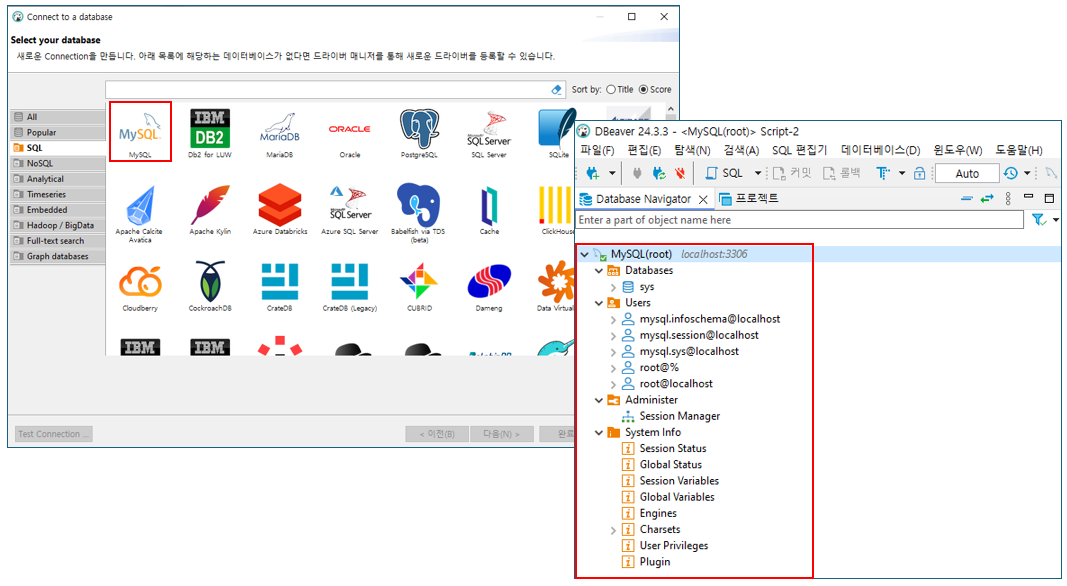
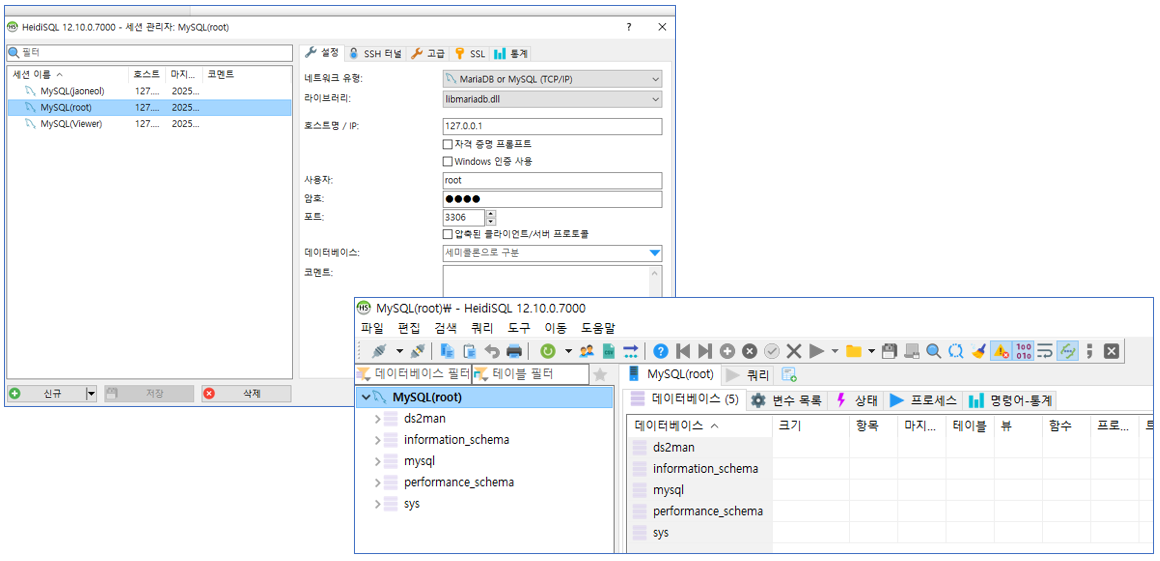
20250218

Changed region(s): [[0.0, 0.0, 1.0, 1.0], [0.0928, 0.5758, 0.2165, 0.6061]]

diff --git a/_posts/db/2024-11-01-MySQL1.md b/_posts/db/2024-11-01-MySQL1.md
@@ -115,13 +115,24 @@ exit
         ],
 ```
 
-## *Use DBeaver*
+## *Use HeidiSQL(Recommend)*
 
-There are many database-related tools, but I primarily use **DBeaver**. Each database tool has its pros and cons, but in practice, **DBeaver** offers many features that are highly beneficial for developers. In particular, it is free and can also be used in a corporate environment. You can download and use it from [DBeaver](https://dbeaver.io/download/).
+There are many database-related tools, but when connecting to MySQL, I mainly use **HeidiSQL**. Each database tool has its pros and cons, but in practice, **HeidiSQL** offers many features that are highly beneficial for developers. In particular, it is free and can also be used in a corporate environment. You can download and use it from [HeidiSQL](https://www.heidisql.com/download.php).
 
 <!--
-많은 DB관련 툴을 존재하지만 나는 DBeaver을 주로 사용하고 있습니다.  
-DB 툴별로 장단점이 존재하지만, 실무에서 사용하기에 DBeaver의 기능들이 가장 개발자에게 도움이 되는 것들이 많은 것 같습니다. 특히 무료로 회사에서도 사용 가능하다. [DBeaver](https://dbeaver.io/download/)에서 다운로드하여 사용하자.
+많은 DB관련 툴을 존재하지만 MySQL 접속할 때는 나는 HeidiSQL을 주로 사용하고 있습니다.
+DB 툴별로 장단점이 존재하지만, 실무에서 사용하기에 DBeaver의 기능들이 가장 개발자에게 도움이 되는 것들이 많은 것 같습니다. 특히 무료로 회사에서도 사용 가능하다. [HeidiSQL](https://www.heidisql.com/download.php)에서 다운로드하여 사용하자.
+-->
+
+![DBeaver](/assets/img/2024-11-01-MySQL1_1.png)
+_HeidiSQL_
+
+## *Use DBeaver*
+
+For reference, there is also a tool called DBeaver, which seems useful for connecting to various types of databases besides MySQL. (At my company, we mainly use it for connecting to Oracle.). You can download and use it from [DBeaver](https://dbeaver.io/download/).
+
+<!--
+참고로 DBeaver라는 Tool도 있는데, MySQL 이외에 다양한 종류의 DB 접속에 유용한 거 같다.(회사에서 Oracle 접속 시 주로 사용한다.)
 -->
 
 ![DBeaver](/assets/img/2024-11-01-MySQL1_1.png)
